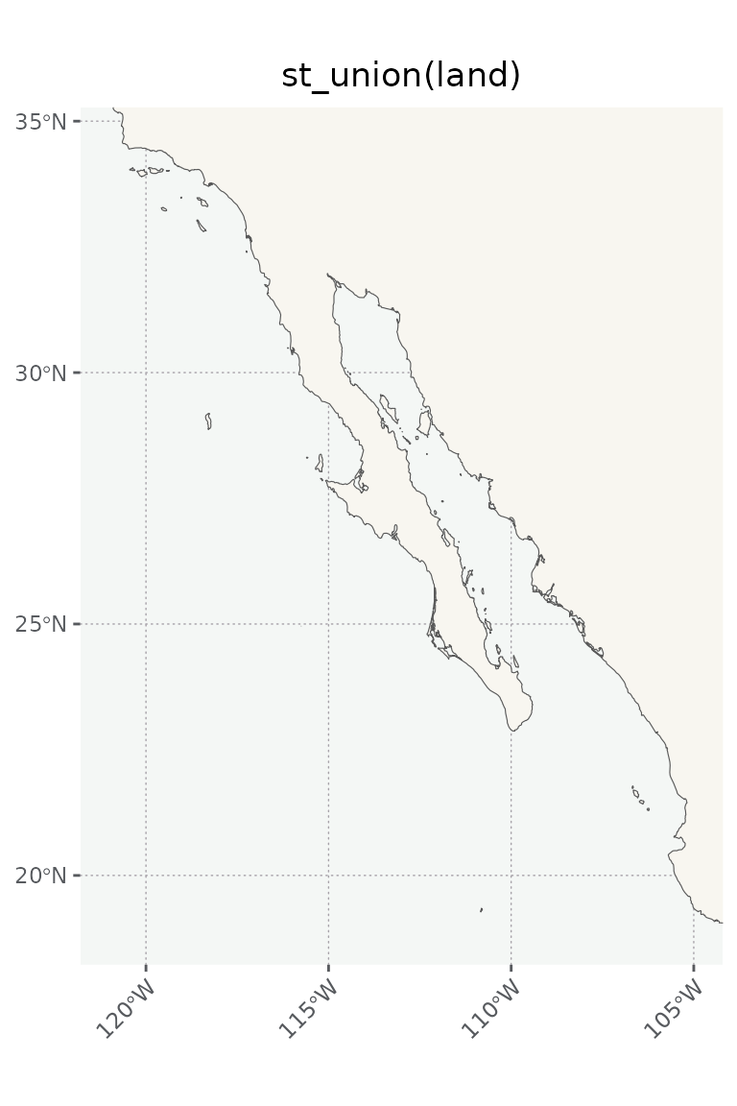
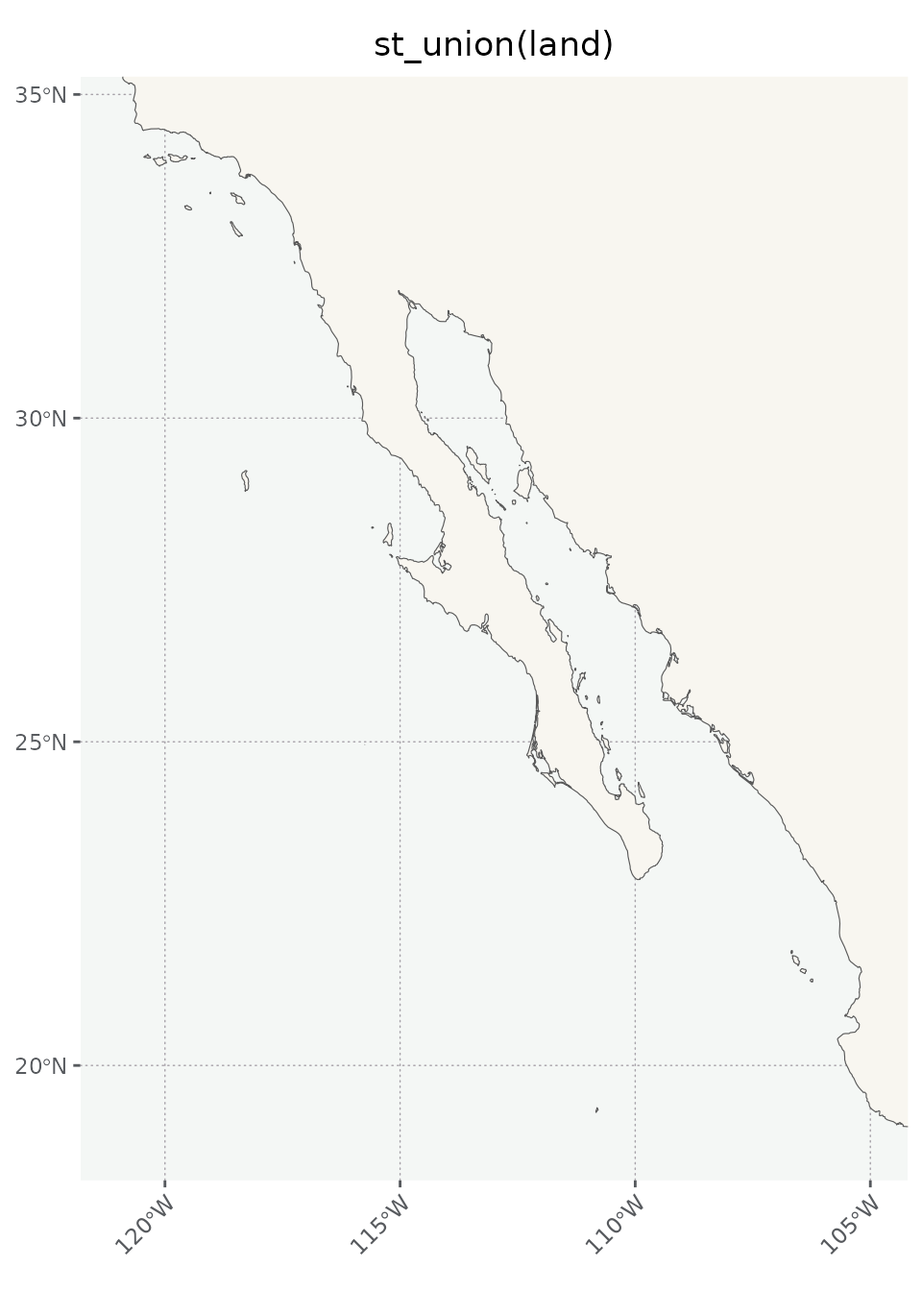
Deploying to gh-pages from @ sagesteppe/flyer@7d766273fd6e5f1517ed1267b5d4e4cb7fc84fd7 🚀

diff --git a/articles/ExploreDataSets.html b/articles/ExploreDataSets.html
@@ -193,7 +193,7 @@ forgetful of their API calls (theme argument?).</p>
 <span>  <span class="fu">theme_nautical</span><span class="op">(</span><span class="op">)</span> <span class="op">+</span></span>
 <span>  <span class="fu"><a href="https://ggplot2.tidyverse.org/reference/labs.html" class="external-link">labs</a></span><span class="op">(</span>title <span class="op">=</span> <span class="st">'land'</span><span class="op">)</span> <span class="op">+</span> </span>
 <span>  <span class="fu"><a href="https://ggplot2.tidyverse.org/reference/ggsf.html" class="external-link">coord_sf</a></span><span class="op">(</span>xlim <span class="op">=</span> <span class="fu"><a href="https://rdrr.io/r/base/c.html" class="external-link">c</a></span><span class="op">(</span><span class="va">bb</span><span class="op">[</span><span class="fl">1</span><span class="op">]</span>, <span class="va">bb</span><span class="op">[</span><span class="fl">3</span><span class="op">]</span><span class="op">)</span>, ylim <span class="op">=</span> <span class="fu"><a href="https://rdrr.io/r/base/c.html" class="external-link">c</a></span><span class="op">(</span><span class="va">bb</span><span class="op">[</span><span class="fl">2</span><span class="op">]</span>, <span class="va">bb</span><span class="op">[</span><span class="fl">4</span><span class="op">]</span><span class="op">)</span><span class="op">)</span> </span></code></pre></div>
-<p><img src="ExploreDataSets_files/figure-html/add%20land-1.png" width="384"></p>
+<p><img src="ExploreDataSets_files/figure-html/add%20land-1.png" width="480"></p>
 <p>For playing around with the data today, I don’t want the different
 countries to be drawn separately so we can union them.</p>
 <div class="sourceCode" id="cb5"><pre class="downlit sourceCode r">
@@ -206,7 +206,7 @@ countries to be drawn separately so we can union them.</p>
 <span>  <span class="fu"><a href="https://ggplot2.tidyverse.org/reference/ggsf.html" class="external-link">coord_sf</a></span><span class="op">(</span>xlim <span class="op">=</span> <span class="fu"><a href="https://rdrr.io/r/base/c.html" class="external-link">c</a></span><span class="op">(</span><span class="va">bb</span><span class="op">[</span><span class="fl">1</span><span class="op">]</span>, <span class="va">bb</span><span class="op">[</span><span class="fl">3</span><span class="op">]</span><span class="op">)</span>, ylim <span class="op">=</span> <span class="fu"><a href="https://rdrr.io/r/base/c.html" class="external-link">c</a></span><span class="op">(</span><span class="va">bb</span><span class="op">[</span><span class="fl">2</span><span class="op">]</span>, <span class="va">bb</span><span class="op">[</span><span class="fl">4</span><span class="op">]</span><span class="op">)</span><span class="op">)</span> </span>
 <span></span>
 <span><span class="va">m</span></span></code></pre></div>
-<p><img src="ExploreDataSets_files/figure-html/union%20land-1.png" width="384"></p>
+<p><img src="ExploreDataSets_files/figure-html/union%20land-1.png" width="480"></p>
 </div>
 <div class="section level5">
 <h5 id="places">places<a class="anchor" aria-label="anchor" href="#places"></a>
@@ -241,12 +241,13 @@ countries to be drawn separately so we can union them.</p>
 <span><span class="co">#&gt; Coordinate system already present. Adding new coordinate system, which will</span></span>
 <span><span class="co">#&gt; replace the existing one.</span></span>
 <span><span class="va">m</span></span></code></pre></div>
-<p><img src="ExploreDataSets_files/figure-html/plot%20the%20places-1.png" width="384"></p>
+<p><img src="ExploreDataSets_files/figure-html/plot%20the%20places-1.png" width="480"></p>
 <p>The places seem like they will be better treated as text labels - we
 can apply them with <code><a href="https://ggrepel.slowkow.com/reference/geom_text_repel.html" class="external-link">ggrepel::geom_text_repel</a></code> which will
 move them to avoid conflicts with other plot elements.</p>
 <div class="sourceCode" id="cb7"><pre class="downlit sourceCode r">
 <code class="sourceCode R"><span><span class="va">m</span> <span class="op">&lt;-</span> <span class="va">m</span> <span class="op">+</span> </span>
+<span>  <span class="fu"><a href="https://ggplot2.tidyverse.org/reference/ggsf.html" class="external-link">coord_sf</a></span><span class="op">(</span>xlim <span class="op">=</span> <span class="fu"><a href="https://rdrr.io/r/base/c.html" class="external-link">c</a></span><span class="op">(</span><span class="op">-</span><span class="fl">118</span>, <span class="op">-</span><span class="fl">106</span><span class="op">)</span>, ylim <span class="op">=</span> <span class="fu"><a href="https://rdrr.io/r/base/c.html" class="external-link">c</a></span><span class="op">(</span><span class="fl">22</span>, <span class="fl">31</span><span class="op">)</span><span class="op">)</span> <span class="op">+</span></span>
 <span>  <span class="fu">ggrepel</span><span class="fu">::</span><span class="fu"><a href="https://ggrepel.slowkow.com/reference/geom_text_repel.html" class="external-link">geom_text_repel</a></span><span class="op">(</span></span>
 <span>    data <span class="op">=</span> <span class="va">places</span>,</span>
 <span>    <span class="fu"><a href="https://ggplot2.tidyverse.org/reference/aes.html" class="external-link">aes</a></span><span class="op">(</span>label <span class="op">=</span> <span class="va">location_espanol</span>, geometry <span class="op">=</span> <span class="va">geometry</span><span class="op">)</span>,</span>
@@ -263,13 +264,12 @@ move them to avoid conflicts with other plot elements.</p>
 <span>    x <span class="op">=</span> <span class="cn">NULL</span>, y <span class="op">=</span> <span class="cn">NULL</span>,</span>
 <span>    title <span class="op">=</span> <span class="st">'geom_text_repel(places)'</span>, </span>
 <span>    subtitle <span class="op">=</span> <span class="st">'+ land + places'</span></span>
-<span>    <span class="op">)</span> <span class="op">+</span> </span>
-<span>  <span class="fu"><a href="https://ggplot2.tidyverse.org/reference/ggsf.html" class="external-link">coord_sf</a></span><span class="op">(</span>xlim <span class="op">=</span> <span class="fu"><a href="https://rdrr.io/r/base/c.html" class="external-link">c</a></span><span class="op">(</span><span class="va">bb</span><span class="op">[</span><span class="fl">1</span><span class="op">]</span>, <span class="va">bb</span><span class="op">[</span><span class="fl">3</span><span class="op">]</span><span class="op">)</span>, ylim <span class="op">=</span> <span class="fu"><a href="https://rdrr.io/r/base/c.html" class="external-link">c</a></span><span class="op">(</span><span class="va">bb</span><span class="op">[</span><span class="fl">2</span><span class="op">]</span>, <span class="va">bb</span><span class="op">[</span><span class="fl">4</span><span class="op">]</span><span class="op">)</span><span class="op">)</span> </span>
+<span>    <span class="op">)</span></span>
 <span><span class="co">#&gt; Coordinate system already present. Adding new coordinate system, which will</span></span>
 <span><span class="co">#&gt; replace the existing one.</span></span>
 <span></span>
 <span><span class="va">m</span></span></code></pre></div>
-<p><img src="ExploreDataSets_files/figure-html/plot%20places%20as%20text-1.png" width="384"></p>
+<p><img src="ExploreDataSets_files/figure-html/plot%20places%20as%20text-1.png" width="480"></p>
 <p>Also, because the package is attached we can also just start using
 the data, which is currently held as a promise. In other words we don’t
 need to call <code>data(object)</code> on the data sets, we can just use
@@ -328,6 +328,13 @@ and returned to Monterey, most all data focuses on the Gulf of Mexico.
 Basically, too much data would make the package too cumbersome to fit on
 CRAN. In my mind the maximum map area reaches San Diego in the North</p>
 <div class="sourceCode" id="cb10"><pre class="downlit sourceCode r">
+<code class="sourceCode R"><span><span class="va">date_scale</span> <span class="op">&lt;-</span> <span class="fu"><a href="https://rdrr.io/r/base/as.Date.html" class="external-link">as.Date</a></span><span class="op">(</span><span class="fu"><a href="https://rdrr.io/r/stats/quantile.html" class="external-link">quantile</a></span><span class="op">(</span><span class="fu"><a href="https://rdrr.io/r/base/numeric.html" class="external-link">as.numeric</a></span><span class="op">(</span><span class="va">route</span><span class="op">$</span><span class="va">date_arrive</span><span class="op">)</span>, na.rm <span class="op">=</span> <span class="cn">T</span>, probs <span class="op">=</span> <span class="fu"><a href="https://rdrr.io/r/base/c.html" class="external-link">c</a></span><span class="op">(</span><span class="fl">0.1</span>, <span class="fl">0.5</span>, <span class="fl">0.9</span><span class="op">)</span><span class="op">)</span><span class="op">)</span></span>
+<span><span class="va">dates</span> <span class="op">&lt;-</span> <span class="fu"><a href="https://rdrr.io/r/base/c.html" class="external-link">c</a></span><span class="op">(</span></span>
+<span>  <span class="fu"><a href="https://rdrr.io/r/base/expression.html" class="external-link">expression</a></span><span class="op">(</span><span class="fu"><a href="https://rdrr.io/r/base/paste.html" class="external-link">paste</a></span><span class="op">(</span><span class="st">"March "</span>, <span class="fl">16</span><span class="op">^</span><span class="va">th</span><span class="op">)</span><span class="op">)</span>, </span>
+<span>  <span class="fu"><a href="https://rdrr.io/r/base/expression.html" class="external-link">expression</a></span><span class="op">(</span><span class="fu"><a href="https://rdrr.io/r/base/paste.html" class="external-link">paste</a></span><span class="op">(</span><span class="st">"Mar. "</span>, <span class="fl">28</span><span class="op">^</span><span class="va">th</span><span class="op">)</span><span class="op">)</span>, </span>
+<span>  <span class="fu"><a href="https://rdrr.io/r/base/expression.html" class="external-link">expression</a></span><span class="op">(</span><span class="fu"><a href="https://rdrr.io/r/base/paste.html" class="external-link">paste</a></span><span class="op">(</span><span class="st">"April "</span>, <span class="fl">11</span><span class="op">^</span><span class="va">th</span><span class="op">)</span><span class="op">)</span></span>
+<span>  <span class="op">)</span></span></code></pre></div>
+<div class="sourceCode" id="cb11"><pre class="downlit sourceCode r">
 <code class="sourceCode R"><span><span class="va">bb</span> <span class="op">&lt;-</span> <span class="fu"><a href="https://r-spatial.github.io/sf/reference/st_bbox.html" class="external-link">st_bbox</a></span><span class="op">(</span></span>
 <span>  <span class="fu"><a href="https://rdrr.io/r/base/c.html" class="external-link">c</a></span><span class="op">(</span>xmin <span class="op">=</span> <span class="op">-</span><span class="fl">114</span>, xmax <span class="op">=</span> <span class="op">-</span><span class="fl">108.5</span>, ymin <span class="op">=</span> <span class="fl">22.5</span>, ymax <span class="op">=</span> <span class="fl">30.5</span><span class="op">)</span>,</span>
 <span>  crs <span class="op">=</span> <span class="fu"><a href="https://r-spatial.github.io/sf/reference/st_crs.html" class="external-link">st_crs</a></span><span class="op">(</span><span class="fl">4326</span><span class="op">)</span></span>
@@ -342,21 +349,26 @@ CRAN. In my mind the maximum map area reaches San Diego in the North</p>
 <span>  <span class="fu"><a href="https://ggplot2.tidyverse.org/reference/ggsf.html" class="external-link">geom_sf</a></span><span class="op">(</span>data <span class="op">=</span> <span class="va">land</span>, fill <span class="op">=</span> <span class="st">'#F8F6F0'</span><span class="op">)</span> <span class="op">+</span> </span>
 <span>  <span class="fu">theme_nautical</span><span class="op">(</span><span class="op">)</span> <span class="op">+</span></span>
 <span>  <span class="fu"><a href="https://ggplot2.tidyverse.org/reference/ggsf.html" class="external-link">geom_sf</a></span><span class="op">(</span>data <span class="op">=</span> <span class="va">route</span>, <span class="fu"><a href="https://ggplot2.tidyverse.org/reference/aes.html" class="external-link">aes</a></span><span class="op">(</span>color <span class="op">=</span> <span class="va">date_arrive</span><span class="op">)</span><span class="op">)</span> <span class="op">+</span>  </span>
-<span>  <span class="fu"><a href="https://ggplot2.tidyverse.org/reference/scale_gradient.html" class="external-link">scale_color_date</a></span><span class="op">(</span><span class="st">'Date'</span><span class="op">)</span> <span class="op">+</span> </span>
+<span> <span class="co"># scale_color_date() +  # alteratively just use this and default labels. </span></span>
+<span>  <span class="fu"><a href="https://ggplot2.tidyverse.org/reference/scale_colour_continuous.html" class="external-link">scale_color_continuous</a></span><span class="op">(</span><span class="st">'Date'</span>,</span>
+<span>      breaks <span class="op">=</span> <span class="va">date_scale</span>,</span>
+<span>      labels <span class="op">=</span> <span class="va">dates</span></span>
+<span>      <span class="op">)</span>  <span class="op">+</span> </span>
 <span>  <span class="fu"><a href="https://ggplot2.tidyverse.org/reference/ggsf.html" class="external-link">coord_sf</a></span><span class="op">(</span>xlim <span class="op">=</span> <span class="fu"><a href="https://rdrr.io/r/base/c.html" class="external-link">c</a></span><span class="op">(</span><span class="va">bb</span><span class="op">[</span><span class="fl">1</span><span class="op">]</span>, <span class="va">bb</span><span class="op">[</span><span class="fl">3</span><span class="op">]</span><span class="op">)</span>, ylim <span class="op">=</span> <span class="fu"><a href="https://rdrr.io/r/base/c.html" class="external-link">c</a></span><span class="op">(</span><span class="va">bb</span><span class="op">[</span><span class="fl">2</span><span class="op">]</span>, <span class="va">bb</span><span class="op">[</span><span class="fl">4</span><span class="op">]</span><span class="op">)</span><span class="op">)</span> <span class="op">+</span> </span>
 <span>  </span>
 <span>  <span class="fu"><a href="https://ggplot2.tidyverse.org/reference/labs.html" class="external-link">labs</a></span><span class="op">(</span></span>
 <span>    title <span class="op">=</span> <span class="st">'route'</span>, </span>
 <span>    subtitle <span class="op">=</span> <span class="st">'+ land'</span><span class="op">)</span></span>
 <span></span>
+<span>  </span>
 <span><span class="va">m</span></span></code></pre></div>
-<p><img src="ExploreDataSets_files/figure-html/subset%20bounding%20box-1.png" width="384"></p>
+<p><img src="ExploreDataSets_files/figure-html/subset%20bounding%20box-1.png" width="480"></p>
 <p>Now let’s add some topography to make the land seem more natural.
 We’ll also ignore the administrative borders.</p>
 <p>Note that we are going to go back to the drawing board to control the
 order which layers are added to the map. We’ll still overwrite the
 variable m.</p>
-<div class="sourceCode" id="cb11"><pre class="downlit sourceCode r">
+<div class="sourceCode" id="cb12"><pre class="downlit sourceCode r">
 <code class="sourceCode R"><span></span>
 <span><span class="va">m</span> <span class="op">&lt;-</span> <span class="fu"><a href="https://ggplot2.tidyverse.org/reference/ggplot.html" class="external-link">ggplot</a></span><span class="op">(</span><span class="op">)</span> <span class="op">+</span> </span>
 <span>  <span class="fu"><a href="https://ggplot2.tidyverse.org/reference/ggsf.html" class="external-link">geom_sf</a></span><span class="op">(</span>data <span class="op">=</span> <span class="va">land</span>, fill <span class="op">=</span> <span class="st">'#F8F6F0'</span><span class="op">)</span> <span class="op">+</span> </span>
@@ -373,8 +385,12 @@ variable m.</p>
 <span>    alpha <span class="op">=</span> <span class="fl">0.7</span>, <span class="co"># make the backing more transparent</span></span>
 <span>    label.size <span class="op">=</span> <span class="cn">NA</span>, <span class="co"># remove the backing borders</span></span>
 <span>    label.padding <span class="op">=</span> <span class="fl">0.1</span>, <span class="co"># reduce space between label borders and text</span></span>
-<span>    size <span class="op">=</span> <span class="fl">1.5</span> <span class="co"># make the font smaller. </span></span>
+<span>    size <span class="op">=</span> <span class="fl">2.5</span> <span class="co"># make the font smaller. </span></span>
 <span>    <span class="op">)</span> <span class="op">+</span> </span>
+<span>    <span class="fu"><a href="https://ggplot2.tidyverse.org/reference/scale_colour_continuous.html" class="external-link">scale_color_continuous</a></span><span class="op">(</span><span class="st">'Date'</span>,</span>
+<span>      breaks <span class="op">=</span> <span class="va">date_scale</span>,</span>
+<span>      labels <span class="op">=</span> <span class="va">dates</span></span>
+<span>      <span class="op">)</span> <span class="op">+</span> </span>
 <span>  </span>
 <span>  <span class="co"># now let's add in our customized graticules too. </span></span>
 <span>  <span class="fu"><a href="https://ggplot2.tidyverse.org/reference/scale_continuous.html" class="external-link">scale_x_continuous</a></span><span class="op">(</span>breaks <span class="op">=</span> <span class="va">brks</span><span class="op">$</span><span class="va">x</span><span class="op">)</span> <span class="op">+</span></span>
@@ -384,20 +400,22 @@ variable m.</p>
 <span>    x <span class="op">=</span> <span class="cn">NULL</span>, y <span class="op">=</span> <span class="cn">NULL</span>,</span>
 <span>    title <span class="op">=</span> <span class="st">'elevation'</span>, </span>
 <span>    subtitle <span class="op">=</span> <span class="st">'+ route + places'</span><span class="op">)</span> </span>
+<span><span class="co">#&gt; Scale for <span style="color: #00BB00;">colour</span> is already present.</span></span>
+<span><span class="co">#&gt; Adding another scale for <span style="color: #00BB00;">colour</span>, which will replace the existing scale.</span></span>
 <span></span>
 <span><span class="va">m</span></span>
 <span><span class="co">#&gt; Warning in st_point_on_surface.sfc(sf::st_zm(x)): st_point_on_surface may not</span></span>
 <span><span class="co">#&gt; give correct results for longitude/latitude data</span></span></code></pre></div>
-<p><img src="ExploreDataSets_files/figure-html/add%20topography-1.png" width="384"></p>
+<p><img src="ExploreDataSets_files/figure-html/add%20topography-1.png" width="480"></p>
 <p>We can plot the bathymetry data like this.</p>
-<div class="sourceCode" id="cb12"><pre class="downlit sourceCode r">
+<div class="sourceCode" id="cb13"><pre class="downlit sourceCode r">
 <code class="sourceCode R"><span><span class="fu"><a href="https://ggplot2.tidyverse.org/reference/ggplot.html" class="external-link">ggplot</a></span><span class="op">(</span><span class="op">)</span> <span class="op">+</span> </span>
 <span>  <span class="fu"><a href="https://ggplot2.tidyverse.org/reference/ggsf.html" class="external-link">geom_sf</a></span><span class="op">(</span>data <span class="op">=</span> <span class="va">land</span>, fill <span class="op">=</span> <span class="st">'#F8F6F0'</span><span class="op">)</span> <span class="op">+</span> </span>
 <span>  <span class="fu"><a href="https://ggplot2.tidyverse.org/reference/ggsf.html" class="external-link">geom_sf</a></span><span class="op">(</span>data <span class="op">=</span> <span class="va">bathymetry</span>, <span class="fu"><a href="https://ggplot2.tidyverse.org/reference/aes.html" class="external-link">aes</a></span><span class="op">(</span>color <span class="op">=</span> <span class="va">elevation</span><span class="op">)</span>, lwd <span class="op">=</span> <span class="fl">0.4</span><span class="op">)</span>  <span class="op">+</span></span>
 <span>  <span class="fu">theme_nautical</span><span class="op">(</span><span class="op">)</span> <span class="op">+</span> </span>
 <span>  <span class="fu"><a href="https://ggplot2.tidyverse.org/reference/ggsf.html" class="external-link">coord_sf</a></span><span class="op">(</span>xlim <span class="op">=</span> <span class="fu"><a href="https://rdrr.io/r/base/c.html" class="external-link">c</a></span><span class="op">(</span><span class="va">bb</span><span class="op">[</span><span class="fl">1</span><span class="op">]</span>, <span class="va">bb</span><span class="op">[</span><span class="fl">3</span><span class="op">]</span><span class="op">)</span>, ylim <span class="op">=</span> <span class="fu"><a href="https://rdrr.io/r/base/c.html" class="external-link">c</a></span><span class="op">(</span><span class="va">bb</span><span class="op">[</span><span class="fl">2</span><span class="op">]</span>, <span class="va">bb</span><span class="op">[</span><span class="fl">4</span><span class="op">]</span><span class="op">)</span><span class="op">)</span> <span class="op">+</span> </span>
 <span>  <span class="fu"><a href="https://ggplot2.tidyverse.org/reference/labs.html" class="external-link">labs</a></span><span class="op">(</span>title <span class="op">=</span> <span class="st">'bathymetry'</span>, subtitle <span class="op">=</span> <span class="st">'+ land'</span><span class="op">)</span></span></code></pre></div>
-<p><img src="ExploreDataSets_files/figure-html/unnamed-chunk-2-1.png" width="384">
+<p><img src="ExploreDataSets_files/figure-html/unnamed-chunk-3-1.png" width="480">
 And obviously we can rename it something like depth… :)</p>
 <p>On the other hand, the same scale can be used for topography and
 bathymetry together like this… I will use a divergent scale which makes
@@ -407,7 +425,7 @@ adding the difference to the ‘topography’ data set. Or, and much to my
 liking, we can convert the polylines of bathymetry to polygons, and use
 them to color the whole ocean! With darker areas being deeper hues of
 blue.</p>
-<div class="sourceCode" id="cb13"><pre class="downlit sourceCode r">
+<div class="sourceCode" id="cb14"><pre class="downlit sourceCode r">
 <code class="sourceCode R"><span><span class="fu"><a href="https://rdrr.io/r/utils/head.html" class="external-link">head</a></span><span class="op">(</span><span class="va">bathymetry</span><span class="op">)</span></span>
 <span><span class="co">#&gt; Simple feature collection with 6 features and 1 field</span></span>
 <span><span class="co">#&gt; Geometry type: LINESTRING</span></span>
@@ -432,10 +450,14 @@ blue.</p>
 <span></span>
 <span>  <span class="fu"><a href="https://ggplot2.tidyverse.org/reference/ggsf.html" class="external-link">geom_sf</a></span><span class="op">(</span>data <span class="op">=</span> <span class="va">places</span><span class="op">)</span> <span class="op">+</span>  </span>
 <span>  <span class="fu"><a href="https://ggplot2.tidyverse.org/reference/ggsf.html" class="external-link">geom_sf</a></span><span class="op">(</span>data <span class="op">=</span> <span class="va">route</span>, <span class="fu"><a href="https://ggplot2.tidyverse.org/reference/aes.html" class="external-link">aes</a></span><span class="op">(</span>color <span class="op">=</span> <span class="va">date_arrive</span><span class="op">)</span><span class="op">)</span> <span class="op">+</span></span>
-<span>  <span class="fu"><a href="https://ggplot2.tidyverse.org/reference/scale_gradient.html" class="external-link">scale_color_date</a></span><span class="op">(</span><span class="st">'Date'</span><span class="op">)</span> <span class="op">+</span> </span>
+<span>  <span class="fu"><a href="https://ggplot2.tidyverse.org/reference/labs.html" class="external-link">labs</a></span><span class="op">(</span>title <span class="op">=</span> <span class="st">'topography'</span>, subtitle <span class="op">=</span> <span class="st">'+ land + bathymetry'</span><span class="op">)</span><span class="op">+</span></span>
+<span>  <span class="fu"><a href="https://ggplot2.tidyverse.org/reference/scale_colour_continuous.html" class="external-link">scale_color_continuous</a></span><span class="op">(</span><span class="st">'Date'</span>,</span>
+<span>      breaks <span class="op">=</span> <span class="va">date_scale</span>,</span>
+<span>      labels <span class="op">=</span> <span class="va">dates</span></span>
+<span>      <span class="op">)</span> <span class="op">+</span> </span>
 <span>  <span class="fu">theme_nautical</span><span class="op">(</span><span class="op">)</span> <span class="op">+</span> </span>
 <span>  <span class="fu"><a href="https://ggplot2.tidyverse.org/reference/ggsf.html" class="external-link">coord_sf</a></span><span class="op">(</span>xlim <span class="op">=</span> <span class="fu"><a href="https://rdrr.io/r/base/c.html" class="external-link">c</a></span><span class="op">(</span><span class="va">bb</span><span class="op">[</span><span class="fl">1</span><span class="op">]</span>, <span class="va">bb</span><span class="op">[</span><span class="fl">3</span><span class="op">]</span><span class="op">)</span>, ylim <span class="op">=</span> <span class="fu"><a href="https://rdrr.io/r/base/c.html" class="external-link">c</a></span><span class="op">(</span><span class="va">bb</span><span class="op">[</span><span class="fl">2</span><span class="op">]</span>, <span class="va">bb</span><span class="op">[</span><span class="fl">4</span><span class="op">]</span><span class="op">)</span><span class="op">)</span></span></code></pre></div>
-<p><img src="ExploreDataSets_files/figure-html/and%20bathymetry-1.png" width="384"></p>
+<p><img src="ExploreDataSets_files/figure-html/and%20bathymetry-1.png" width="480"></p>
 </div>
 <div class="section level3">
 <h3 id="tangential-data">tangential data<a class="anchor" aria-label="anchor" href="#tangential-data"></a>
@@ -446,17 +468,18 @@ cartography.</p>
 <p>A simple landcover classification data set is available as
 <code>landcover</code>. We also include some quick colors to help with
 mapping these classes.</p>
-<div class="sourceCode" id="cb14"><pre class="downlit sourceCode r">
+<div class="sourceCode" id="cb15"><pre class="downlit sourceCode r">
 <code class="sourceCode R"><span><span class="fu"><a href="https://ggplot2.tidyverse.org/reference/ggplot.html" class="external-link">ggplot</a></span><span class="op">(</span><span class="op">)</span> <span class="op">+</span> </span>
 <span>  <span class="fu"><a href="https://ggplot2.tidyverse.org/reference/ggsf.html" class="external-link">geom_sf</a></span><span class="op">(</span>data <span class="op">=</span> <span class="va">landcover</span>, <span class="fu"><a href="https://ggplot2.tidyverse.org/reference/aes.html" class="external-link">aes</a></span><span class="op">(</span>fill <span class="op">=</span> <span class="va">class</span><span class="op">)</span>, color <span class="op">=</span> <span class="cn">NA</span><span class="op">)</span> <span class="op">+</span> </span>
-<span>  <span class="fu"><a href="https://ggplot2.tidyverse.org/reference/scale_manual.html" class="external-link">scale_fill_manual</a></span><span class="op">(</span><span class="st">'Class'</span>, values <span class="op">=</span> <span class="va">lc_pal</span><span class="op">)</span> <span class="op">+</span> </span>
+<span>  <span class="fu"><a href="https://ggplot2.tidyverse.org/reference/scale_manual.html" class="external-link">scale_fill_manual</a></span><span class="op">(</span><span class="st">'Class'</span>, values <span class="op">=</span> <span class="va">lc_pal</span>, breaks <span class="op">=</span> <span class="fu"><a href="https://rdrr.io/r/base/names.html" class="external-link">names</a></span><span class="op">(</span><span class="va">lc_pal</span><span class="op">[</span><span class="fu"><a href="https://rdrr.io/r/base/c.html" class="external-link">c</a></span><span class="op">(</span><span class="fl">1</span><span class="op">:</span><span class="fl">8</span>, <span class="fl">9</span><span class="op">)</span><span class="op">]</span><span class="op">)</span><span class="op">)</span> <span class="op">+</span> </span>
 <span>  <span class="fu">theme_nautical</span><span class="op">(</span><span class="op">)</span> <span class="op">+</span> </span>
 <span>  <span class="fu"><a href="https://ggplot2.tidyverse.org/reference/labs.html" class="external-link">labs</a></span><span class="op">(</span>title <span class="op">=</span> <span class="st">'landcover'</span>, subtitle <span class="op">=</span> <span class="st">'+ lc_pal'</span><span class="op">)</span> <span class="op">+</span> </span>
+<span>  <span class="fu"><a href="https://ggplot2.tidyverse.org/reference/guides.html" class="external-link">guides</a></span><span class="op">(</span>fill <span class="op">=</span> <span class="fu"><a href="https://ggplot2.tidyverse.org/reference/guide_legend.html" class="external-link">guide_legend</a></span><span class="op">(</span>nrow <span class="op">=</span> <span class="fl">3</span><span class="op">)</span><span class="op">)</span> <span class="op">+</span> </span>
 <span>  <span class="fu"><a href="https://ggplot2.tidyverse.org/reference/ggsf.html" class="external-link">coord_sf</a></span><span class="op">(</span>xlim <span class="op">=</span> <span class="fu"><a href="https://rdrr.io/r/base/c.html" class="external-link">c</a></span><span class="op">(</span><span class="va">bb</span><span class="op">[</span><span class="fl">1</span><span class="op">]</span>, <span class="va">bb</span><span class="op">[</span><span class="fl">3</span><span class="op">]</span><span class="op">)</span>, ylim <span class="op">=</span> <span class="fu"><a href="https://rdrr.io/r/base/c.html" class="external-link">c</a></span><span class="op">(</span><span class="va">bb</span><span class="op">[</span><span class="fl">2</span><span class="op">]</span>, <span class="va">bb</span><span class="op">[</span><span class="fl">4</span><span class="op">]</span><span class="op">)</span><span class="op">)</span></span></code></pre></div>
-<p><img src="ExploreDataSets_files/figure-html/unnamed-chunk-3-1.png" width="384"></p>
+<p><img src="ExploreDataSets_files/figure-html/unnamed-chunk-4-1.png" width="480"></p>
 <p>Additionally, information on protected areas of Mexico are also
 included.</p>
-<div class="sourceCode" id="cb15"><pre class="downlit sourceCode r">
+<div class="sourceCode" id="cb16"><pre class="downlit sourceCode r">
 <code class="sourceCode R"><span></span>
 <span><span class="va">protected</span> <span class="op">&lt;-</span> <span class="fu"><a href="https://r-spatial.github.io/sf/reference/st_crop.html" class="external-link">st_crop</a></span><span class="op">(</span><span class="va">protected</span>, <span class="va">bb</span><span class="op">)</span></span>
 <span></span>
@@ -477,29 +500,34 @@ included.</p>
 <span></span>
 <span>  <span class="fu">theme_nautical</span><span class="op">(</span><span class="op">)</span>  <span class="op">+</span> </span>
 <span>  <span class="fu"><a href="https://ggplot2.tidyverse.org/reference/ggsf.html" class="external-link">coord_sf</a></span><span class="op">(</span>xlim <span class="op">=</span> <span class="fu"><a href="https://rdrr.io/r/base/c.html" class="external-link">c</a></span><span class="op">(</span><span class="va">bb</span><span class="op">[</span><span class="fl">1</span><span class="op">]</span>, <span class="va">bb</span><span class="op">[</span><span class="fl">3</span><span class="op">]</span><span class="op">)</span>, ylim <span class="op">=</span> <span class="fu"><a href="https://rdrr.io/r/base/c.html" class="external-link">c</a></span><span class="op">(</span><span class="va">bb</span><span class="op">[</span><span class="fl">2</span><span class="op">]</span>, <span class="va">bb</span><span class="op">[</span><span class="fl">4</span><span class="op">]</span><span class="op">)</span><span class="op">)</span></span></code></pre></div>
-<p><img src="ExploreDataSets_files/figure-html/Protected%20areas-1.png" width="384"></p>
+<p><img src="ExploreDataSets_files/figure-html/Protected%20areas-1.png" width="480"></p>
 </div>
 </div>
 <div class="section level2">
 <h2 id="putting-it-all-together">putting it all together<a class="anchor" aria-label="anchor" href="#putting-it-all-together"></a>
 </h2>
 <p>We can make an OK map using some of the details below.</p>
-<div class="sourceCode" id="cb16"><pre class="downlit sourceCode r">
+<div class="sourceCode" id="cb17"><pre class="downlit sourceCode r">
 <code class="sourceCode R"><span><span class="fu"><a href="https://ggplot2.tidyverse.org/reference/ggplot.html" class="external-link">ggplot</a></span><span class="op">(</span><span class="op">)</span> <span class="op">+</span> </span>
 <span>  </span>
 <span>  <span class="co"># the stage</span></span>
 <span>  <span class="fu"><a href="https://ggplot2.tidyverse.org/reference/ggsf.html" class="external-link">geom_sf</a></span><span class="op">(</span>data <span class="op">=</span> <span class="va">landcover</span>, <span class="fu"><a href="https://ggplot2.tidyverse.org/reference/aes.html" class="external-link">aes</a></span><span class="op">(</span>fill <span class="op">=</span> <span class="va">class</span><span class="op">)</span><span class="op">)</span> <span class="op">+</span> </span>
 <span>  <span class="fu"><a href="https://ggplot2.tidyverse.org/reference/scale_manual.html" class="external-link">scale_fill_manual</a></span><span class="op">(</span><span class="st">'Class'</span>, values <span class="op">=</span> <span class="va">lc_pal</span><span class="op">)</span> <span class="op">+</span> </span>
 <span>  <span class="fu"><a href="https://ggplot2.tidyverse.org/reference/ggsf.html" class="external-link">geom_sf</a></span><span class="op">(</span>data <span class="op">=</span> <span class="va">land</span>, fill <span class="op">=</span> <span class="st">'#F8F6F0'</span>, alpha <span class="op">=</span> <span class="fl">0.5</span><span class="op">)</span> <span class="op">+</span>  <span class="co"># helps to dull the landcover for this map. </span></span>
-<span>  </span>
+<span>  <span class="fu"><a href="https://ggplot2.tidyverse.org/reference/guides.html" class="external-link">guides</a></span><span class="op">(</span>fill<span class="op">=</span><span class="st">"none"</span><span class="op">)</span> <span class="op">+</span> </span>
+<span></span>
 <span>  <span class="fu"><a href="https://ggplot2.tidyverse.org/reference/ggsf.html" class="external-link">geom_sf</a></span><span class="op">(</span>data <span class="op">=</span> <span class="va">bathymetry</span>, <span class="fu"><a href="https://ggplot2.tidyverse.org/reference/aes.html" class="external-link">aes</a></span><span class="op">(</span>color <span class="op">=</span> <span class="va">elevation</span><span class="op">)</span>, lwd <span class="op">=</span> <span class="fl">0.25</span><span class="op">)</span> <span class="op">+</span> </span>
-<span>  <span class="fu"><a href="https://ggplot2.tidyverse.org/reference/ggsf.html" class="external-link">geom_sf</a></span><span class="op">(</span>data <span class="op">=</span> <span class="va">topography</span>,  <span class="fu"><a href="https://ggplot2.tidyverse.org/reference/aes.html" class="external-link">aes</a></span><span class="op">(</span>color <span class="op">=</span> <span class="va">elevation</span><span class="op">)</span>, lwd <span class="op">=</span> <span class="fl">0.25</span><span class="op">)</span> <span class="op">+</span> </span>
-<span>  <span class="fu"><a href="https://ggplot2.tidyverse.org/reference/scale_brewer.html" class="external-link">scale_color_distiller</a></span><span class="op">(</span><span class="st">'Elevation'</span>, palette <span class="op">=</span> <span class="st">"Spectral"</span><span class="op">)</span> <span class="op">+</span></span>
+<span>  <span class="fu"><a href="https://ggplot2.tidyverse.org/reference/ggsf.html" class="external-link">geom_sf</a></span><span class="op">(</span>data <span class="op">=</span> <span class="va">topography</span>,  <span class="fu"><a href="https://ggplot2.tidyverse.org/reference/aes.html" class="external-link">aes</a></span><span class="op">(</span>color <span class="op">=</span> <span class="va">elevation</span><span class="op">)</span>, lwd <span class="op">=</span> <span class="fl">0.25</span>, color <span class="op">=</span> <span class="st">'black'</span><span class="op">)</span> <span class="op">+</span> </span>
+<span><span class="co">#  scale_color_distiller('Elevation', palette = "Spectral") +</span></span>
+<span>  <span class="fu"><a href="https://ggplot2.tidyverse.org/reference/guides.html" class="external-link">guides</a></span><span class="op">(</span>color<span class="op">=</span><span class="st">'none'</span><span class="op">)</span> <span class="op">+</span> </span>
 <span>  <span class="fu">ggnewscale</span><span class="fu">::</span><span class="fu"><a href="https://eliocamp.github.io/ggnewscale/reference/new_scale.html" class="external-link">new_scale_colour</a></span><span class="op">(</span><span class="op">)</span> <span class="op">+</span> </span>
 <span>  </span>
 <span>  <span class="co"># the story </span></span>
 <span>  <span class="fu"><a href="https://ggplot2.tidyverse.org/reference/ggsf.html" class="external-link">geom_sf</a></span><span class="op">(</span>data <span class="op">=</span> <span class="va">route</span>, <span class="fu"><a href="https://ggplot2.tidyverse.org/reference/aes.html" class="external-link">aes</a></span><span class="op">(</span>color <span class="op">=</span> <span class="va">date_arrive</span><span class="op">)</span><span class="op">)</span> <span class="op">+</span></span>
-<span>  <span class="fu"><a href="https://ggplot2.tidyverse.org/reference/scale_gradient.html" class="external-link">scale_color_date</a></span><span class="op">(</span><span class="st">'Date'</span><span class="op">)</span> <span class="op">+</span></span>
+<span>    <span class="fu"><a href="https://ggplot2.tidyverse.org/reference/scale_colour_continuous.html" class="external-link">scale_color_continuous</a></span><span class="op">(</span><span class="st">'Date'</span>,</span>
+<span>      breaks <span class="op">=</span> <span class="va">date_scale</span>,</span>
+<span>      labels <span class="op">=</span> <span class="va">dates</span></span>
+<span>      <span class="op">)</span> <span class="op">+</span> </span>
 <span></span>
 <span>  <span class="fu"><a href="https://ggplot2.tidyverse.org/reference/ggsf.html" class="external-link">geom_sf</a></span><span class="op">(</span>data <span class="op">=</span> <span class="va">places</span>, shape <span class="op">=</span> <span class="fl">5</span>, size <span class="op">=</span> <span class="fl">1.5</span>, color <span class="op">=</span> <span class="st">'#222823'</span><span class="op">)</span> <span class="op">+</span>   </span>
 <span>  <span class="fu">ggrepel</span><span class="fu">::</span><span class="fu"><a href="https://ggrepel.slowkow.com/reference/geom_text_repel.html" class="external-link">geom_label_repel</a></span><span class="op">(</span></span>
@@ -521,8 +549,8 @@ included.</p>
 <span>  <span class="fu"><a href="https://ggplot2.tidyverse.org/reference/labs.html" class="external-link">labs</a></span><span class="op">(</span>title <span class="op">=</span> <span class="st">'A map'</span>, subtitle <span class="op">=</span> <span class="st">'Ricketts &lt;3 giardiniera'</span>, x <span class="op">=</span> <span class="cn">NULL</span>, y <span class="op">=</span> <span class="cn">NULL</span><span class="op">)</span></span>
 <span><span class="co">#&gt; Warning in st_point_on_surface.sfc(sf::st_zm(x)): st_point_on_surface may not</span></span>
 <span><span class="co">#&gt; give correct results for longitude/latitude data</span></span></code></pre></div>
-<p><img src="ExploreDataSets_files/figure-html/unnamed-chunk-4-1.png" width="384"></p>
-<div class="sourceCode" id="cb17"><pre class="downlit sourceCode r">
+<p><img src="ExploreDataSets_files/figure-html/unnamed-chunk-5-1.png" width="480"></p>
+<div class="sourceCode" id="cb18"><pre class="downlit sourceCode r">
 <code class="sourceCode R"><span><span class="fu"><a href="https://rdrr.io/r/base/rm.html" class="external-link">rm</a></span><span class="op">(</span><span class="va">graticNo</span>, <span class="va">brks</span>, <span class="va">theme_nautical</span>, <span class="va">route</span>, <span class="va">places</span>, <span class="va">bb</span>, <span class="va">landcover</span>, <span class="va">lc_pal</span>, <span class="va">land</span>,</span>
 <span>   <span class="va">protected</span>, <span class="va">bathymetry</span>, <span class="va">topography</span><span class="op">)</span></span></code></pre></div>
 </div>
